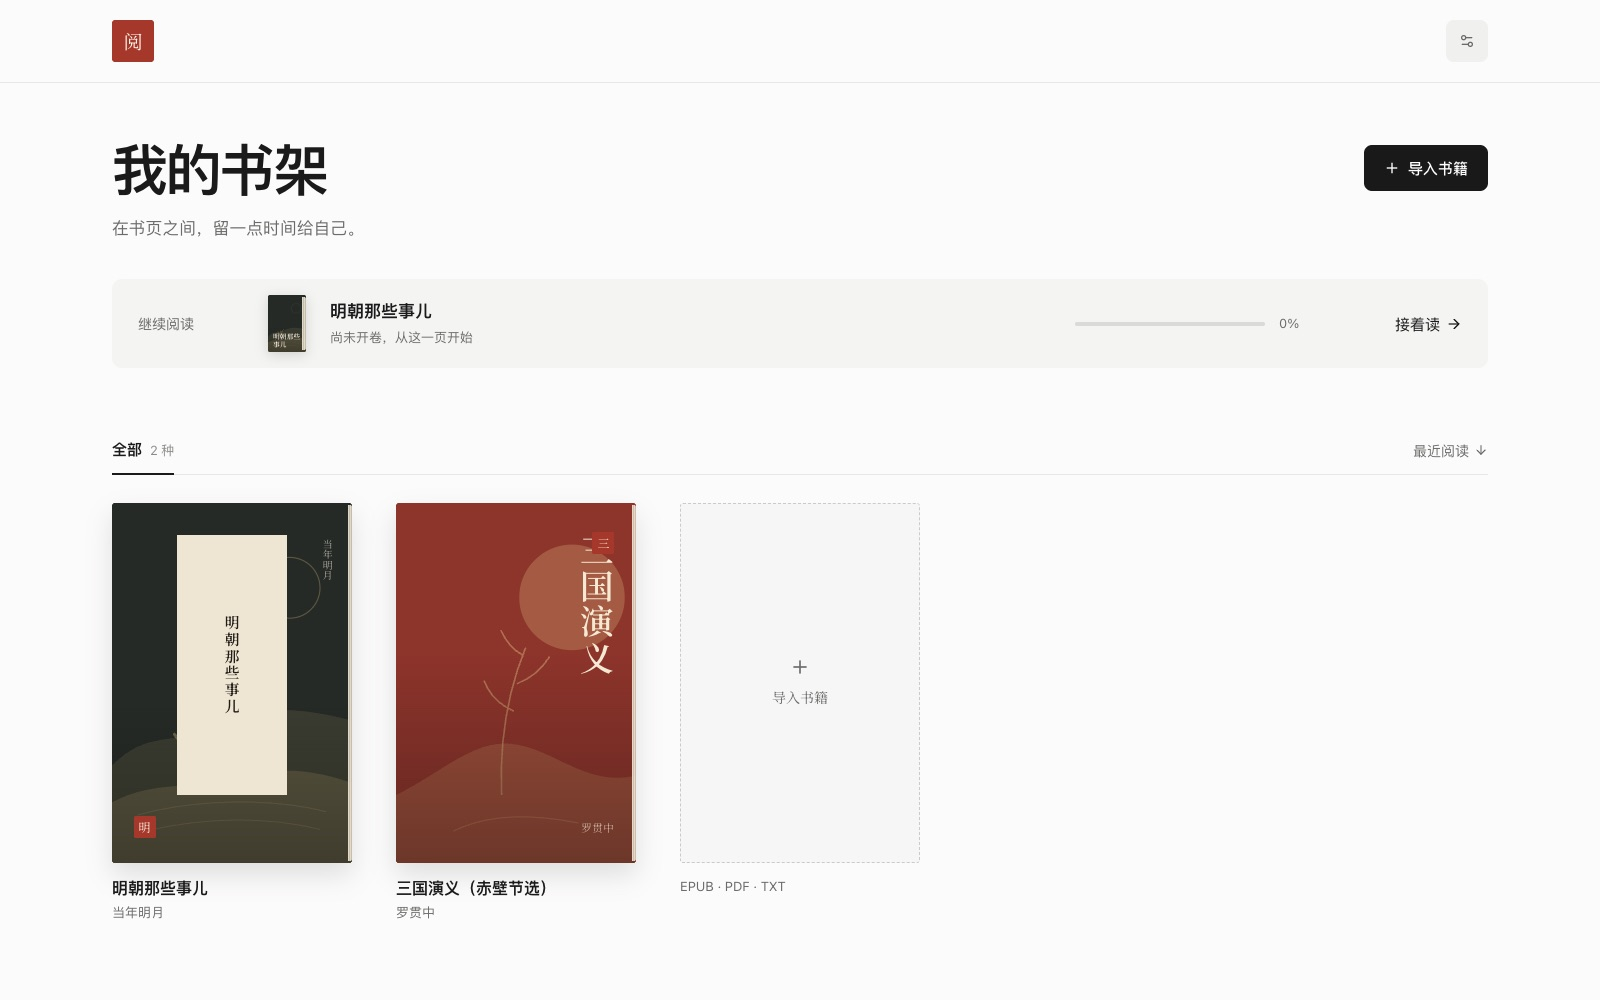
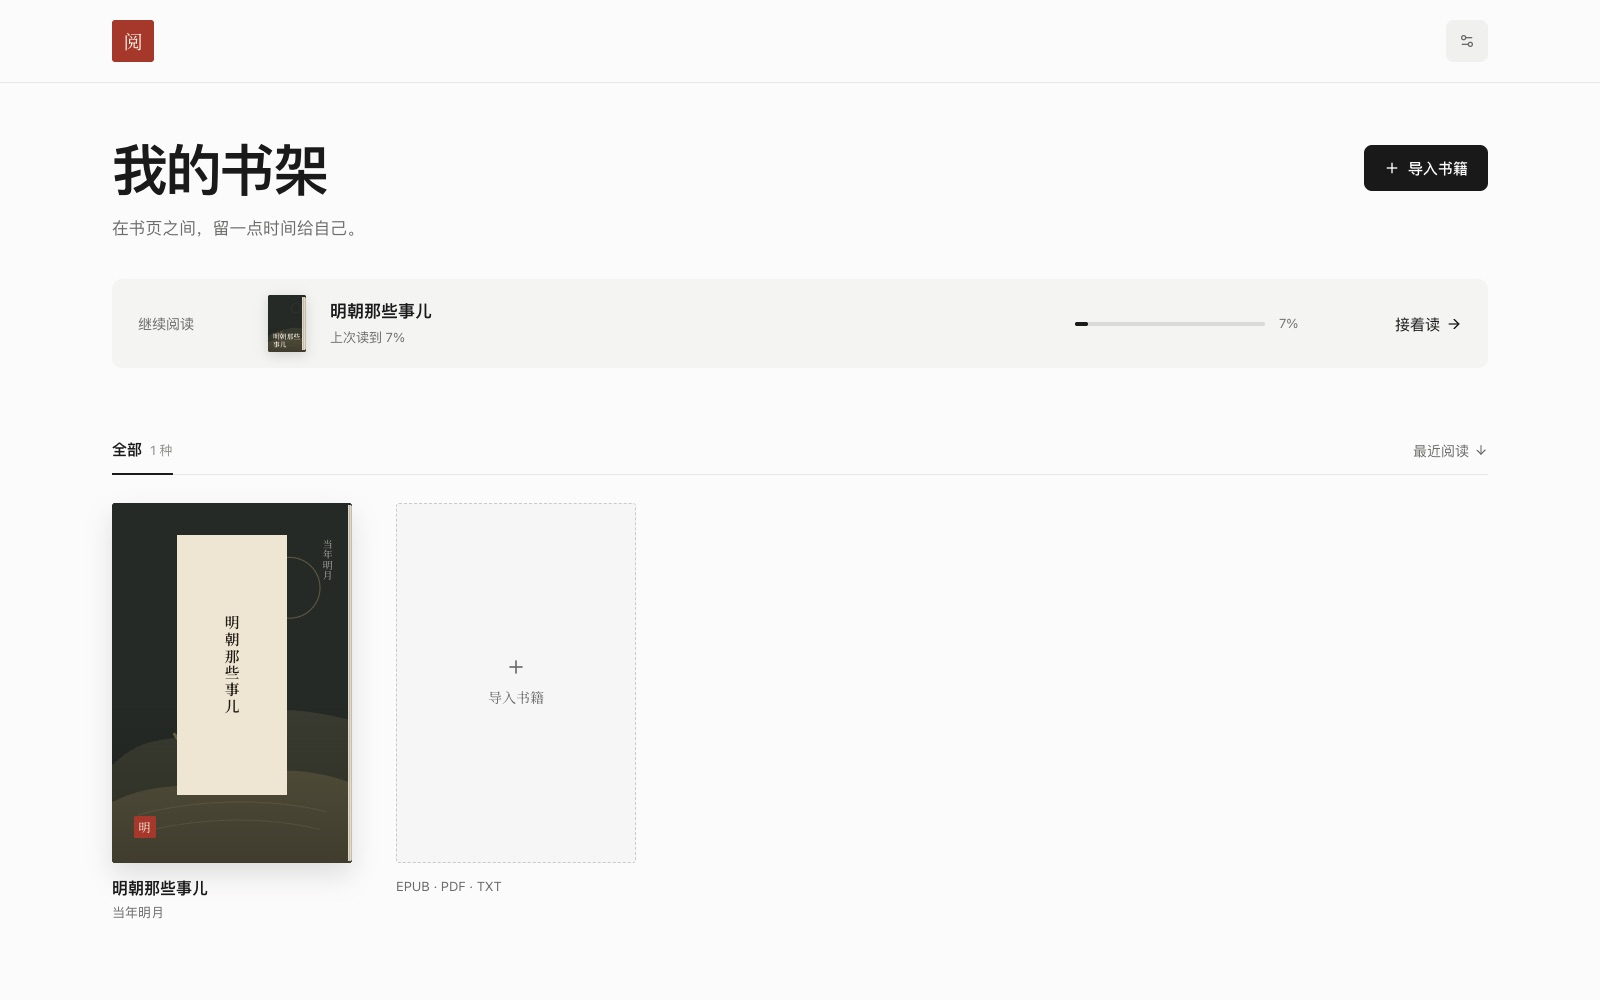
docs: 截图换成《明朝那些事儿》实际阅读
- 使用本地缓存的第八章分析，不重新调用模型
- 替换书架、阅读器+舆图、采石地点证据三张截图
- 移除为截图临时加入的赤壁示例书
- README 截图说明同步改为明朝

diff --git a/README.md b/README.md
@@ -21,11 +21,11 @@
 
 **阅读 + 舆图 / Reader and atlas**
 
-![阅读器与舆图：左侧原文，右侧势力、路线、控制区与时间幕](docs/screenshots/reader-map.jpg)
+![《明朝那些事儿》阅读器与舆图：左侧原文，右侧势力、路线、控制区与时间幕](docs/screenshots/reader-map.jpg)
 
 **点开地图要素看原文证据 / Source-linked evidence**
 
-![赤壁地点详情：今地、精度、置信度与对应原文引文](docs/screenshots/map-evidence.jpg)
+![《明朝那些事儿》采石地点详情：今地、精度、置信度与对应原文引文](docs/screenshots/map-evidence.jpg)
 
 ## 功能
 
